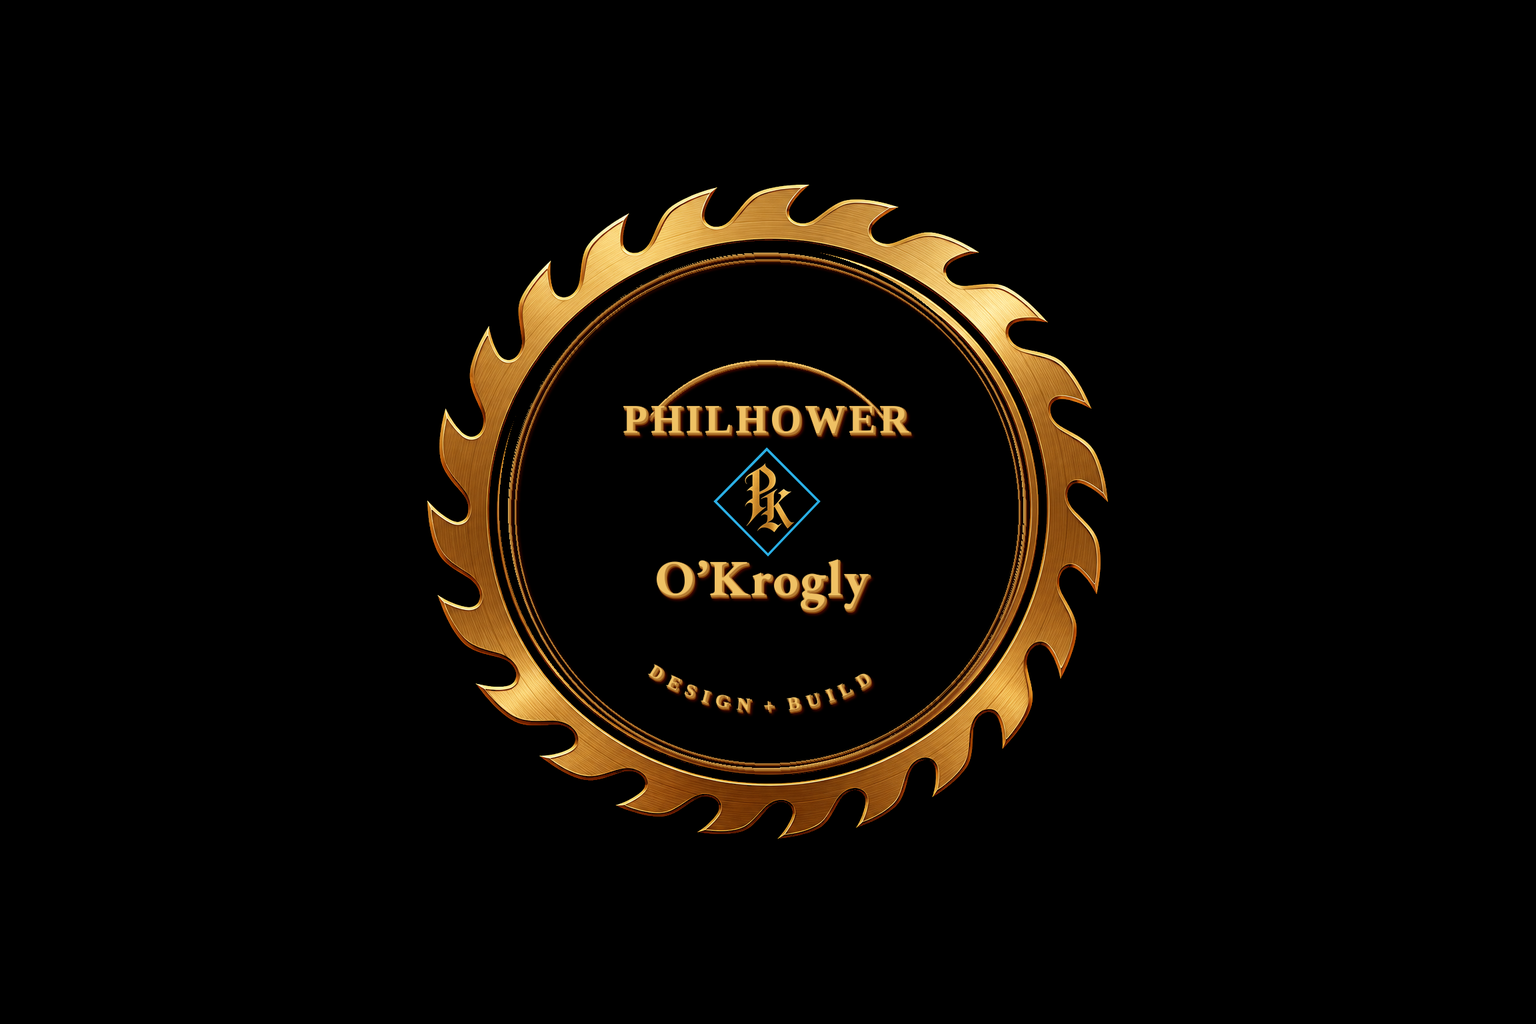
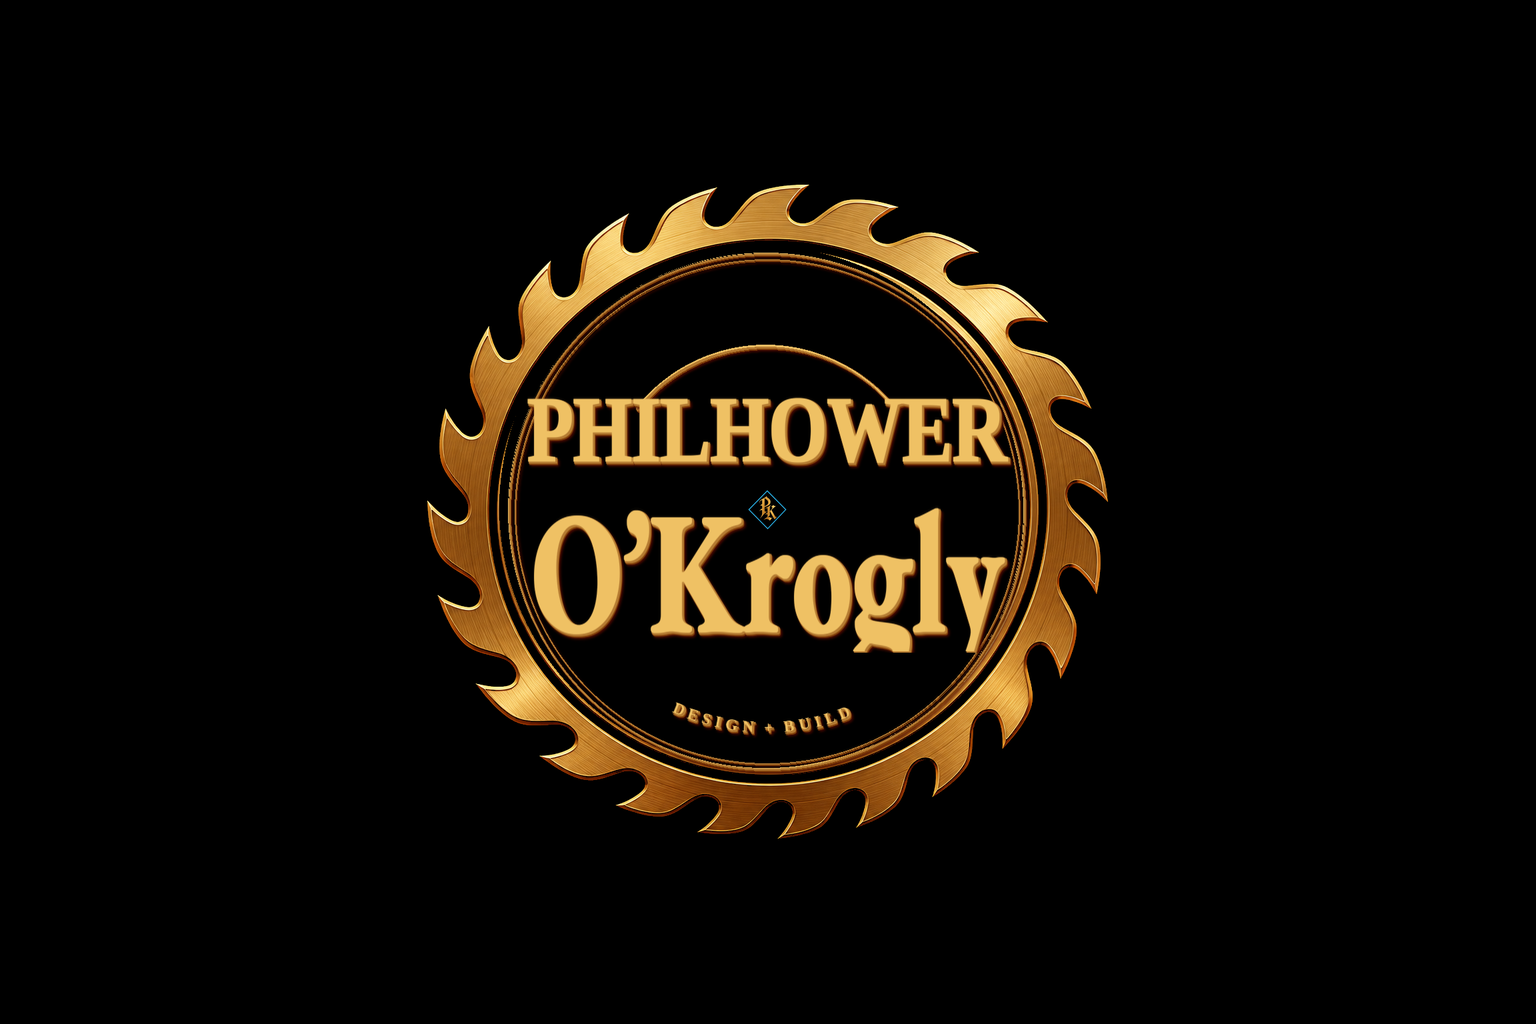
Scale POK type to fill the blade like Service The Hills.
PHILHOWER and O’Krogly stretch nearly ring-to-ring; cyan diamond stays
small. Theme 1.0.26 / brands-print-19.

Changed region(s): [[0.3438, 0.3125, 0.6562, 0.6562], [0.4062, 0.6562, 0.5625, 0.7188]]

diff --git a/dphilhower-studio-wp/preview/work/philhower-okrogly/index.html b/dphilhower-studio-wp/preview/work/philhower-okrogly/index.html
@@ -41,7 +41,7 @@
         <li><strong>Place</strong><br>Northern New Jersey</li>
       </ul>
       <div class="entry-content">
-        <p>Hills blade, double ring, top arc. PHILHOWER in modern Times New Roman. The cyan PK diamond at center. O’Krogly in Garamond. DESIGN + BUILD on the bottom arc — same face as the Times line.</p>
+        <p>Hills blade, double ring, top arc. Big type like Service The Hills: PHILHOWER in modern Times New Roman, cyan PK diamond, O’Krogly in Garamond filling the field. DESIGN + BUILD on the bottom arc.</p>
         <p>One lockup. Polo, van, yard, card, fridge. Black field so gold reads. Blue is only the diamond.</p>
       </div>
     </article>

diff --git a/dphilhower-studio-wp/theme/dphilhower-studio/style.css b/dphilhower-studio-wp/theme/dphilhower-studio/style.css
@@ -4,7 +4,7 @@ Theme URI: https://dphilhower.com
 Author: D Philhower Studio
 Author URI: https://dphilhower.com
 Description: Custom graphic design studio theme for D Philhower Studio at dphilhower.com — portfolio, services, about, and project inquiries. Activate the theme to load demo pages and work samples.
-Version: 1.0.25
+Version: 1.0.26
 Requires at least: 6.4
 Tested up to: 6.8
 Requires PHP: 7.4

diff --git a/dphilhower-studio-wp/theme/dphilhower-studio/inc/setup-content.php b/dphilhower-studio-wp/theme/dphilhower-studio/inc/setup-content.php
@@ -326,7 +326,7 @@ function dps_seed_demo_content( $force = false ) {
 			'services' => 'Identity · embroidery · vehicle · signage',
 			'year'     => '2025',
 			'location' => 'Northern New Jersey',
-			'content'  => '<p>Hills blade, double ring, top arc. PHILHOWER in modern Times New Roman. The cyan PK diamond at center. O’Krogly in Garamond. DESIGN + BUILD on the bottom arc — same face as the Times line.</p><p>One lockup. Polo, van, yard, card, fridge. Black field so gold reads. Blue is only the diamond.</p>',
+			'content'  => '<p>Hills blade, double ring, top arc. Big type like Service The Hills: PHILHOWER in modern Times New Roman, cyan PK diamond, O’Krogly in Garamond filling the field. DESIGN + BUILD on the bottom arc.</p><p>One lockup. Polo, van, yard, card, fridge. Black field so gold reads. Blue is only the diamond.</p>',
 		),
 		array(
 			'slug'     => 'cafe-robust',
@@ -461,7 +461,7 @@ function dps_seed_demo_content( $force = false ) {
 	flush_rewrite_rules();
 
 	update_option( 'dps_demo_seeded', DPS_VERSION );
-	update_option( 'dps_images_version', 'brands-print-18' );
+	update_option( 'dps_images_version', 'brands-print-19' );
 	return true;
 }
 

diff --git a/dphilhower-studio-wp/theme/dphilhower-studio/inc/brand-kits.php b/dphilhower-studio-wp/theme/dphilhower-studio/inc/brand-kits.php
@@ -289,7 +289,7 @@ function dps_brand_kits() {
 		'philhower-okrogly'        => array(
 			'label'  => __( 'Print system', 'dphilhower-studio' ),
 			'title'  => __( 'One lockup, five scales', 'dphilhower-studio' ),
-			'intro'  => __( 'Hills blade, double ring, top arc. PHILHOWER in modern Times New Roman. Cyan PK diamond at center. O’Krogly in Garamond. DESIGN + BUILD on the bottom arc. Polo, van, yard, card, fridge — one lockup.', 'dphilhower-studio' ),
+			'intro'  => __( 'Hills blade, double ring, top arc. Big type like Service The Hills: Times PHILHOWER, cyan PK diamond, Garamond O’Krogly filling the field. DESIGN + BUILD on the bottom arc. Polo, van, yard, card, fridge — one lockup.', 'dphilhower-studio' ),
 			'pieces' => array(
 				array(
 					'file'    => 'pok-seal-hero.png',

diff --git a/dphilhower-studio-wp/theme/dphilhower-studio/functions.php b/dphilhower-studio-wp/theme/dphilhower-studio/functions.php
@@ -9,7 +9,7 @@ if ( ! defined( 'ABSPATH' ) ) {
 	exit;
 }
 
-define( 'DPS_VERSION', '1.0.25' );
+define( 'DPS_VERSION', '1.0.26' );
 define( 'DPS_DIR', get_template_directory() );
 define( 'DPS_URI', get_template_directory_uri() );
 
@@ -164,14 +164,14 @@ function dps_maybe_upgrade_images() {
 	if ( 'dphilhower-studio' !== get_stylesheet() ) {
 		return;
 	}
-	if ( get_option( 'dps_images_version' ) === 'brands-print-18' ) {
+	if ( get_option( 'dps_images_version' ) === 'brands-print-19' ) {
 		return;
 	}
 	if ( ! get_option( 'dps_demo_seeded' ) ) {
 		return;
 	}
 	dps_seed_demo_content( true );
-	update_option( 'dps_images_version', 'brands-print-18' );
+	update_option( 'dps_images_version', 'brands-print-19' );
 }
 
 /**
